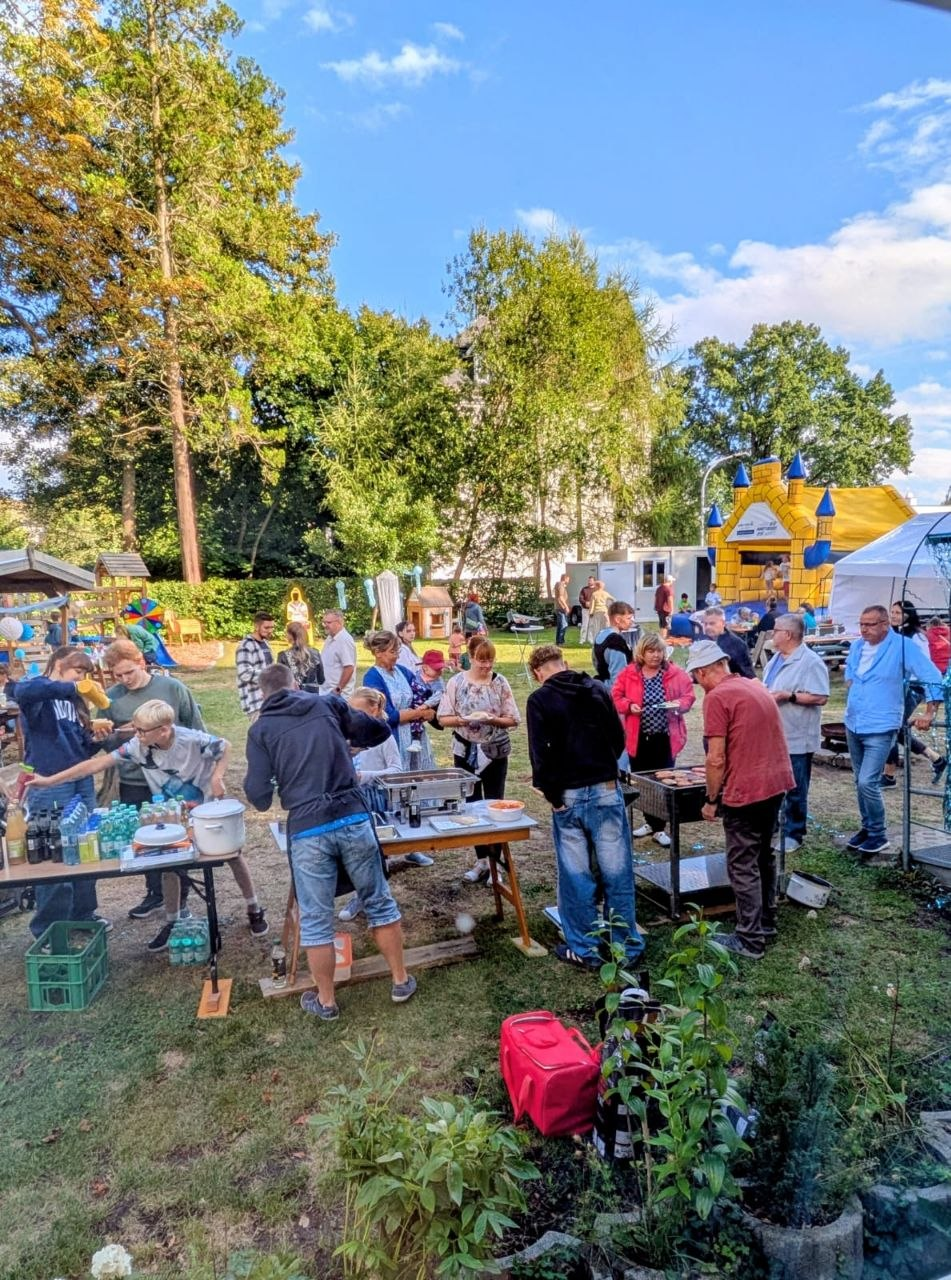
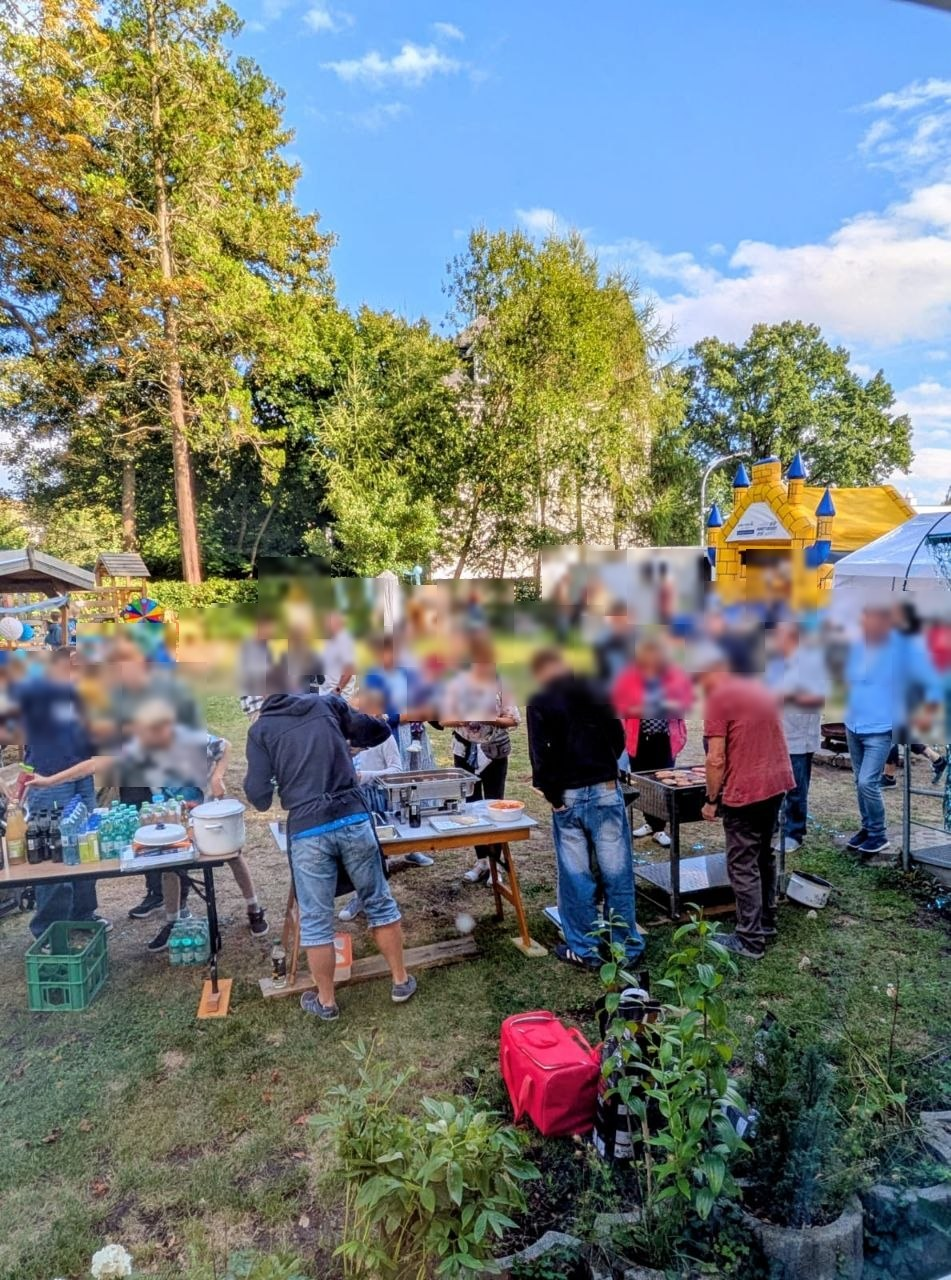
Gartenfest-Foto: Gesichter unkenntlich; Plock-Folie mit Flyer-Bild
- assets/img/gartenfest-2026.jpg: alle erkennbaren Gesichter im Foto
  verpixelt (Anonymisierung für die Veröffentlichung)
- index.html: Themenabende-/Plock-Folie zeigt statt Kalender-Icon ein
  Flyer-Bild (aktuell der vorhandene Gartenfest-Flyer als Platzhalter)
- style.css: Media-Panel-Variante slide-card__media--contain, damit
  Hochformat-Bilder (Flyer) vollständig statt beschnitten erscheinen

Claude-Session: https://claude.ai/code/session_015NawAaVmxWevwgGzs8dYD3

Changed region(s): [[0.0, 0.4062, 1.0, 0.625]]

diff --git a/index.html b/index.html
@@ -65,11 +65,8 @@
             </article>
 
             <article class="carousel__slide slide-card" aria-roledescription="Folie" aria-label="Beitrag 2">
-              <figure class="slide-card__media slide-card__media--brand">
-                <svg viewBox="0 0 24 24" fill="none" stroke="currentColor" stroke-width="1.6" stroke-linecap="round" stroke-linejoin="round" aria-hidden="true" focusable="false">
-                  <rect x="3" y="4.5" width="18" height="16" rx="2"/>
-                  <path d="M3 9.5h18M8 2.5v4M16 2.5v4"/>
-                </svg>
+              <figure class="slide-card__media slide-card__media--contain">
+                <img src="assets/img/gartenfest-einladung.jpg" alt="Einladungsflyer (Platzhalter) zu den Themenabenden" loading="lazy">
               </figure>
               <div class="slide-card__body">
                 <span class="slide-card__kicker">News · 4.–6. September 2026</span>

diff --git a/assets/css/style.css b/assets/css/style.css
@@ -319,6 +319,15 @@ section { padding: 2.75rem 0; }
   opacity: 0.9;
 }
 
+/* Hochformat-Bilder (z.B. Flyer) vollständig zeigen statt beschneiden */
+.slide-card__media--contain {
+  background: linear-gradient(155deg, var(--color-dark) 0%, var(--color-dark-2) 55%, var(--color-teal) 100%);
+}
+
+.slide-card__media--contain img {
+  object-fit: contain;
+}
+
 .slide-card__body {
   display: flex;
   flex-direction: column;
